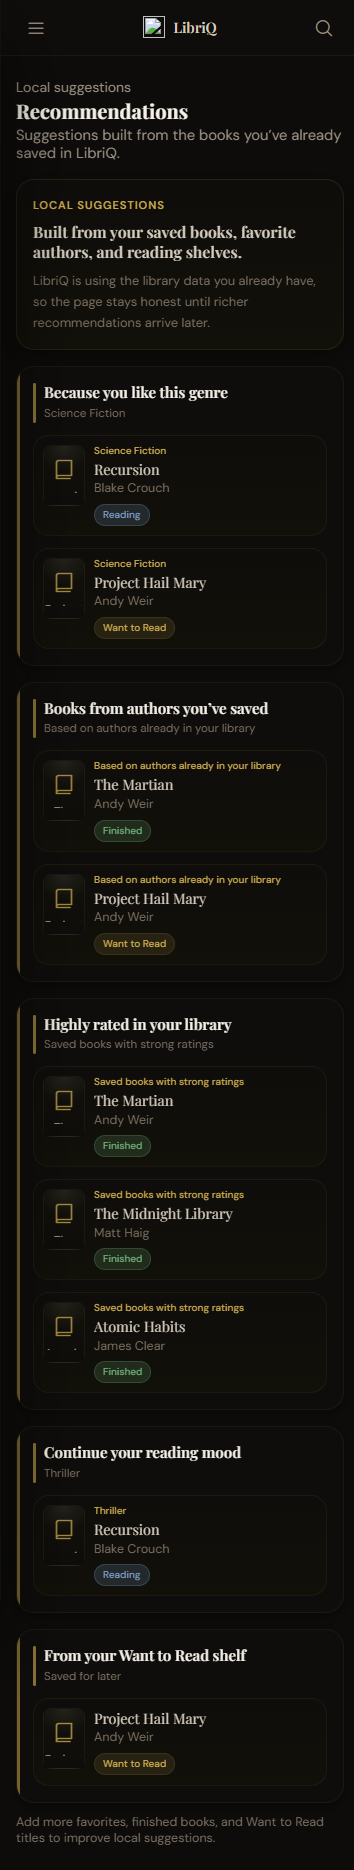
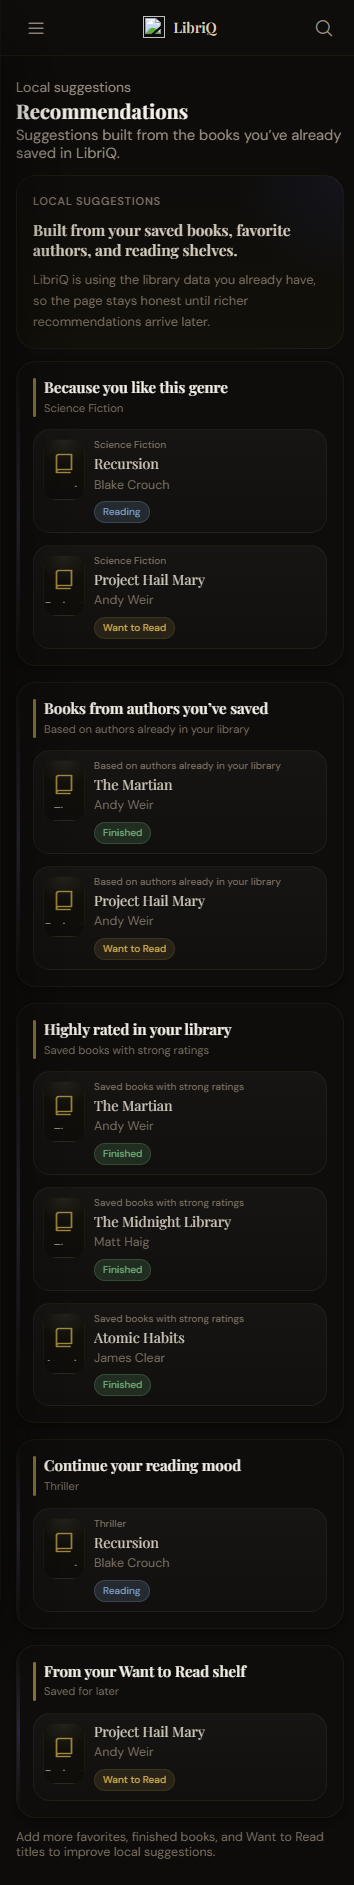
Refine recommendations page styling

diff --git a/frontend/css/components.css b/frontend/css/components.css
@@ -685,7 +685,8 @@ html:not([data-theme="dark"]) .help-intro-icon {
 }
 
 .recommendations-header {
-  align-items: end;
+  align-items: flex-end;
+  margin-bottom: var(--space-5);
 }
 
 .recommendations-heading {
@@ -693,12 +694,14 @@ html:not([data-theme="dark"]) .help-intro-icon {
 }
 
 .recommendations-intro {
-  margin-top: var(--space-4);
+  margin-top: var(--space-3);
   padding: var(--space-5);
-  background: linear-gradient(180deg, var(--bg-surface) 0%, var(--surface-2) 100%);
-  border: 1px solid var(--border-default);
-  border-radius: var(--radius-lg);
-  box-shadow: var(--shadow-card);
+  background:
+    radial-gradient(circle at top right, rgba(99, 102, 241, 0.06), transparent 28%),
+    linear-gradient(180deg, var(--bg-surface) 0%, var(--surface-2) 100%);
+  border: 1px solid var(--border-subtle);
+  border-radius: 24px;
+  box-shadow: 0 10px 28px rgba(15, 23, 42, 0.05);
 }
 
 .recommendations-intro-copy {
@@ -713,7 +716,7 @@ html:not([data-theme="dark"]) .help-intro-icon {
   font-weight: var(--weight-semi);
   letter-spacing: 0.08em;
   text-transform: uppercase;
-  color: var(--text-accent);
+  color: var(--text-dim);
 }
 
 .recommendations-intro-title {
@@ -731,14 +734,16 @@ html:not([data-theme="dark"]) .help-intro-icon {
 }
 
 html:not([data-theme="dark"]) .recommendations-intro {
-  background: linear-gradient(180deg, #fffefb 0%, #f5efe7 100%);
-  border-color: rgba(193, 156, 88, 0.22);
+  background:
+    radial-gradient(circle at top right, rgba(99, 102, 241, 0.05), transparent 28%),
+    linear-gradient(180deg, #fffefb 0%, #f5f2ec 100%);
+  border-color: rgba(148, 163, 184, 0.22);
 }
 
 html:not([data-theme="dark"]) .recommendation-group,
 html:not([data-theme="dark"]) .recommendation-card,
 html:not([data-theme="dark"]) .recommendations-empty-state {
-  background: linear-gradient(180deg, #fffefb 0%, #f6f0e8 100%);
+  background: linear-gradient(180deg, #fffefb 0%, #f6f2ea 100%);
 }
 
 .recommendations-groups {
@@ -751,10 +756,12 @@ html:not([data-theme="dark"]) .recommendations-empty-state {
   padding: var(--space-5);
   position: relative;
   overflow: hidden;
-  background: linear-gradient(180deg, var(--bg-surface) 0%, var(--surface-2) 100%);
-  border: 1px solid var(--border-default);
-  border-radius: var(--radius-xl);
-  box-shadow: var(--shadow-sm);
+  background:
+    radial-gradient(circle at top right, rgba(59, 130, 246, 0.05), transparent 30%),
+    linear-gradient(180deg, var(--bg-surface) 0%, var(--surface-2) 100%);
+  border: 1px solid var(--border-subtle);
+  border-radius: 24px;
+  box-shadow: 0 10px 28px rgba(15, 23, 42, 0.05);
 }
 
 .recommendation-group-single {
@@ -766,8 +773,8 @@ html:not([data-theme="dark"]) .recommendations-empty-state {
   position: absolute;
   inset: 0 auto 0 0;
   width: 4px;
-  background: var(--accent);
-  opacity: 0.55;
+  background: linear-gradient(180deg, transparent, rgba(99, 102, 241, 0.9), transparent);
+  opacity: 0.4;
 }
 
 .recommendation-group-heading {
@@ -805,9 +812,12 @@ html:not([data-theme="dark"]) .recommendations-empty-state {
   align-items: start;
   min-height: 118px;
   padding: var(--space-4);
-  background: linear-gradient(180deg, var(--bg-surface) 0%, var(--surface-2) 100%);
+  background:
+    linear-gradient(180deg, rgba(255,255,255,0.03), rgba(255,255,255,0.01)),
+    var(--bg-surface);
   border: 1px solid var(--border-subtle);
-  border-radius: var(--radius-lg);
+  border-radius: 20px;
+  box-shadow: var(--shadow-xs);
   text-align: left;
   transition: border-color var(--duration-base) var(--ease-out), transform var(--duration-base) var(--ease-out), box-shadow var(--duration-base) var(--ease-out);
 }
@@ -815,7 +825,7 @@ html:not([data-theme="dark"]) .recommendations-empty-state {
 .recommendation-card:hover {
   border-color: var(--border-default);
   transform: translateY(-1px);
-  box-shadow: var(--shadow-md);
+  box-shadow: 0 14px 30px rgba(15, 23, 42, 0.08);
 }
 
 .recommendation-card:not(:disabled):hover .recommendation-card-title {
@@ -835,7 +845,7 @@ html:not([data-theme="dark"]) .recommendations-empty-state {
 .recommendation-card .book-cover {
   width: 64px;
   height: 92px;
-  border-radius: var(--radius-sm);
+  border-radius: 14px;
   box-shadow: var(--shadow-xs);
 }
 
@@ -849,7 +859,7 @@ html:not([data-theme="dark"]) .recommendations-empty-state {
 
 .recommendation-card-reason {
   font-size: var(--text-xs);
-  color: var(--text-accent);
+  color: var(--text-dim);
   font-weight: var(--weight-medium);
 }
 
@@ -889,10 +899,12 @@ html:not([data-theme="dark"]) .recommendations-empty-state {
   text-align: left;
   padding: var(--space-6);
   max-width: 760px;
-  background: linear-gradient(180deg, var(--bg-surface) 0%, var(--surface-2) 100%);
-  border: 1px solid var(--border-default);
-  border-radius: var(--radius-lg);
-  box-shadow: var(--shadow-card);
+  background:
+    radial-gradient(circle at top right, rgba(99, 102, 241, 0.05), transparent 32%),
+    linear-gradient(180deg, var(--bg-surface) 0%, var(--surface-2) 100%);
+  border: 1px solid var(--border-subtle);
+  border-radius: 24px;
+  box-shadow: 0 10px 28px rgba(15, 23, 42, 0.05);
 }
 
 .recommendations-empty-actions {
@@ -912,6 +924,7 @@ html:not([data-theme="dark"]) .recommendations-empty-state {
   margin-top: var(--space-3);
   font-size: var(--text-sm);
   color: var(--text-dim);
+  max-width: 760px;
 }
 
 @media (max-width: 430px) {
@@ -972,11 +985,6 @@ html:not([data-theme="dark"]) .recommendations-empty-state {
   #recommendationsPage .recommendations-empty-state {
     padding: var(--space-4);
     border-radius: 20px;
-    background:
-      radial-gradient(circle at top right, rgba(59, 130, 246, 0.06), transparent 32%),
-      linear-gradient(180deg, var(--bg-surface) 0%, var(--surface-2) 100%);
-    border-color: var(--border-subtle);
-    box-shadow: 0 10px 24px rgba(15, 23, 42, 0.05);
   }
 
   #recommendationsPage .recommendation-group .goal-header {
@@ -986,8 +994,8 @@ html:not([data-theme="dark"]) .recommendations-empty-state {
 
   #recommendationsPage .recommendation-group::before {
     width: 3px;
-    background: linear-gradient(180deg, transparent, var(--accent), transparent);
-    opacity: 0.35;
+    background: linear-gradient(180deg, transparent, rgba(99, 102, 241, 0.9), transparent);
+    opacity: 0.3;
   }
 
   #recommendationsPage .recommendation-group-heading {
@@ -1004,11 +1012,6 @@ html:not([data-theme="dark"]) .recommendations-empty-state {
     min-height: 92px;
     padding: var(--space-3);
     border-radius: 18px;
-    background:
-      linear-gradient(180deg, rgba(255,255,255,0.02), rgba(255,255,255,0.01)),
-      var(--bg-surface);
-    border-color: var(--border-subtle);
-    box-shadow: var(--shadow-xs);
   }
 
   #recommendationsPage .recommendation-card-cover {
@@ -1028,7 +1031,7 @@ html:not([data-theme="dark"]) .recommendations-empty-state {
   #recommendationsPage .recommendation-card-reason {
     font-size: 10px;
     line-height: 1.2;
-    color: var(--text-accent);
+    color: var(--text-dim);
   }
 
   #recommendationsPage .recommendation-card-title {